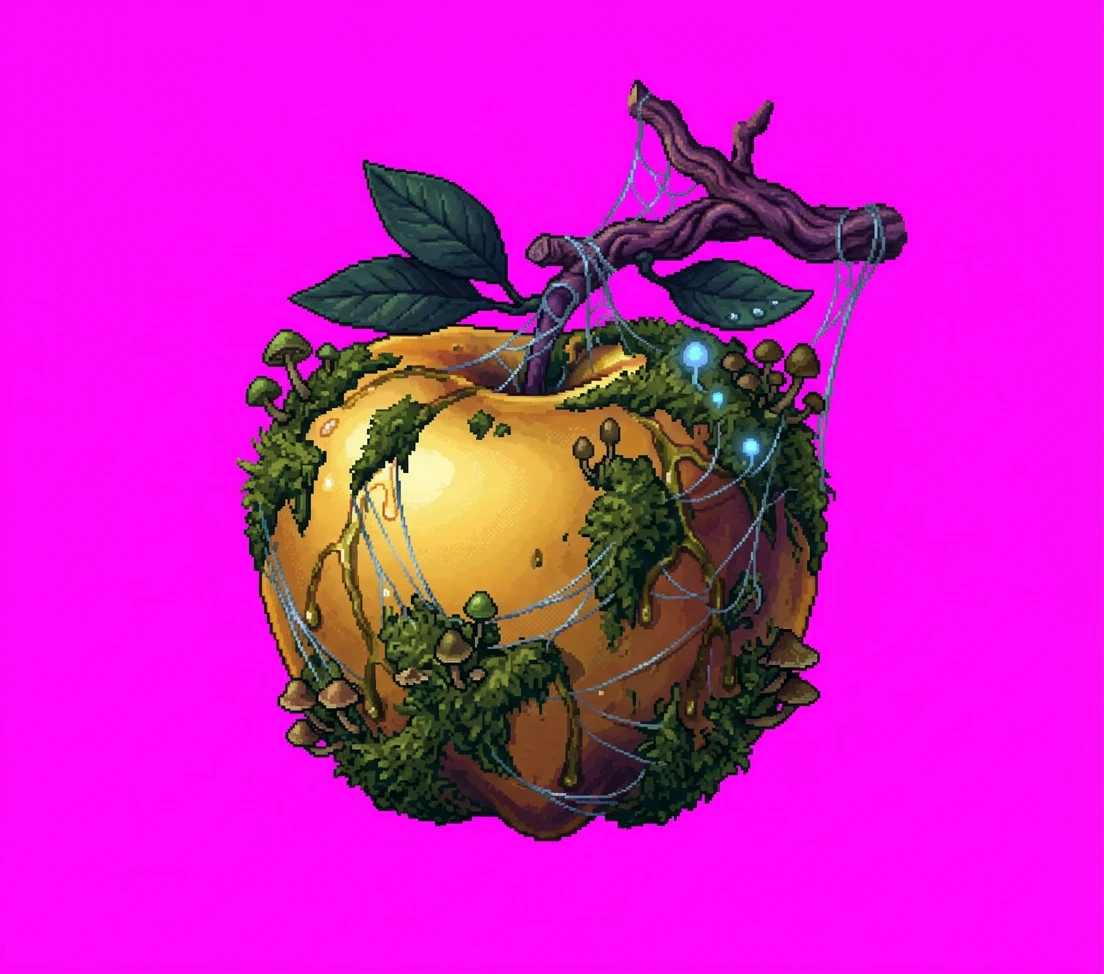
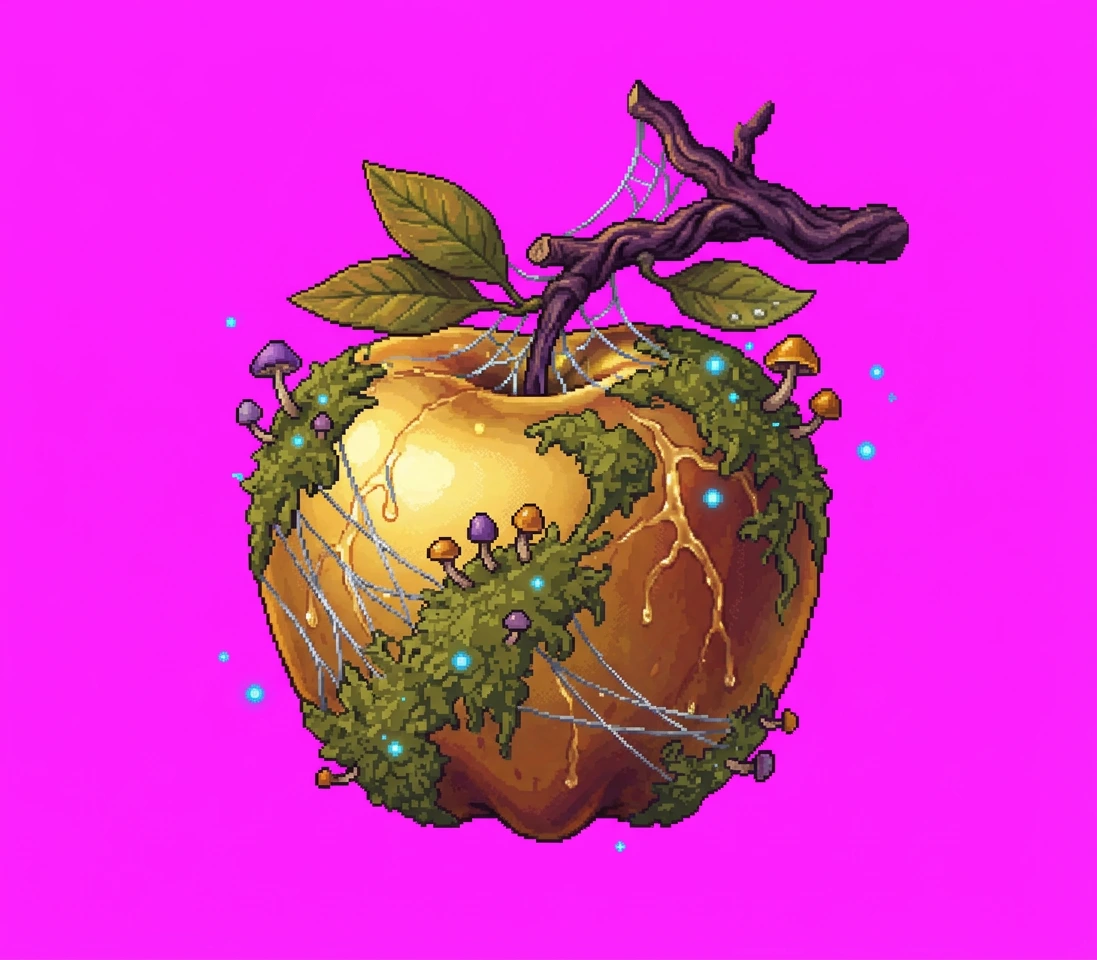
Fase 1: refaz maçãs e santuários 1-4 em pixel art fiel às referências

diff --git a/game/js/assets.js b/game/js/assets.js
@@ -169,7 +169,7 @@ const WROT = {};         // silhuetas brancas rotacionadas (hit flash)
 // ANTIGA nos mesmos nomes de arquivo (foi assim que o rework dos inimigos da
 // Fase 2 "não apareceu" para quem já tinha jogado antes dele).
 // ---------------------------------------------------------------------------
-export const ASSET_V = "20260925-frutos-f1";
+export const ASSET_V = "20260925-frutos-f1b";
 
 /**
  * URL final de um asset do jogo: base certa para a página atual + anti-cache.

diff --git a/MEGA_ARQUIVO.md b/MEGA_ARQUIVO.md
@@ -2822,6 +2822,6 @@ Escolhas (ask_user): itens 1–7, cutscenes intactas, merge só com CI verde.
 
 - **Mudança:** os frutos 1-4 da Árvore agora são maçãs douradas pintadas (variações de `Imagens inspiração/`), cada uma corrompida pelo seu mundo: Planície (grama, flores, pelo de lebre), Floresta (musgo, cogumelos, seda de aranha), Pântano (lodo pútrido, bolhas ciano, juncos), Deserto (casca rachada, brasas, âmbar, areia).
 - A tela do fruto usa um **santuário** (variação da clareira de raízes) do mesmo mundo como fundo, com véu escuro radial para legibilidade e a maçã flutuando no cabeçalho.
-- Arquivos: `game/assets/ui/frutos/*.png` (160 px, RGBA), `game/assets/ui/santuarios/*.jpg` (960×540); fontes em `arte_fonte/` (webp). `meta.js`: `drawFruit` usa a arte quando existe (bloqueado = 50% opacidade + selo com número), `sanctuaryBackdrop`/`drawMiniApple`. `ASSET_V` = `20260925-frutos-f1`.
+- Arquivos: `game/assets/ui/frutos/*.png` (160 px, RGBA), `game/assets/ui/santuarios/*.jpg` (960×540); fontes em `arte_fonte/` (webp). `meta.js`: `drawFruit` usa a arte quando existe (bloqueado = 50% opacidade + selo com número), `sanctuaryBackdrop`/`drawMiniApple`. `ASSET_V` = `20260925-frutos-f1b` (imagens refeitas em pixel art mais fiel às referências).
 - Frutos/santuários 5, 6 e 7 continuam no desenho antigo (fallback automático) até a FASE 2 ser aprovada.
 - **Testes:** `npm test` 25/25 verdes; `npm run inspect` sem erros de JS, 404 ou glifos; capturas das 4 telas de fruto conferidas.
